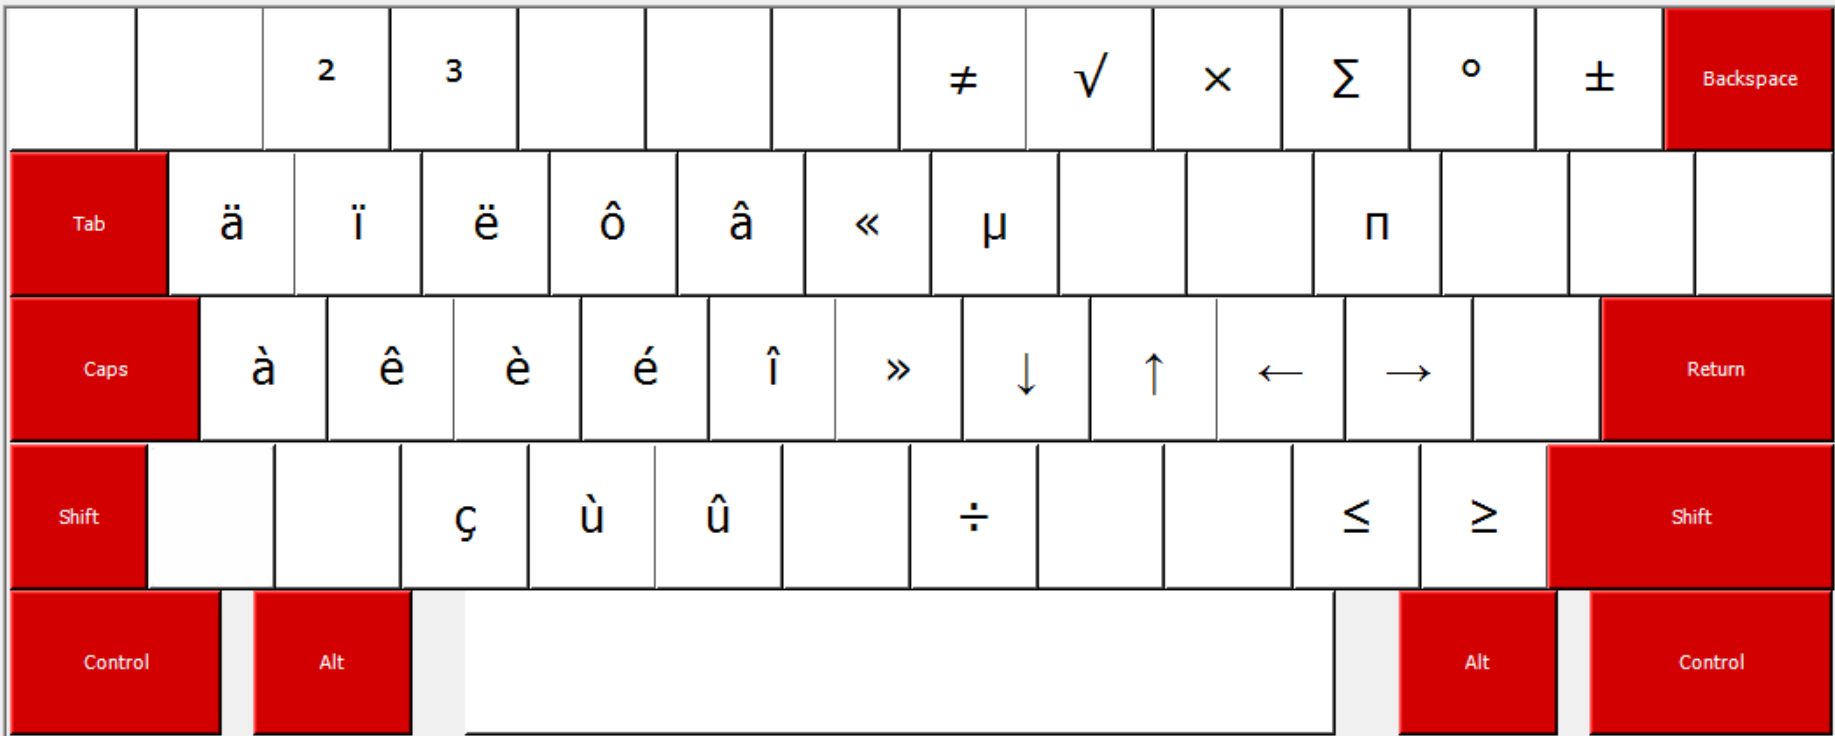
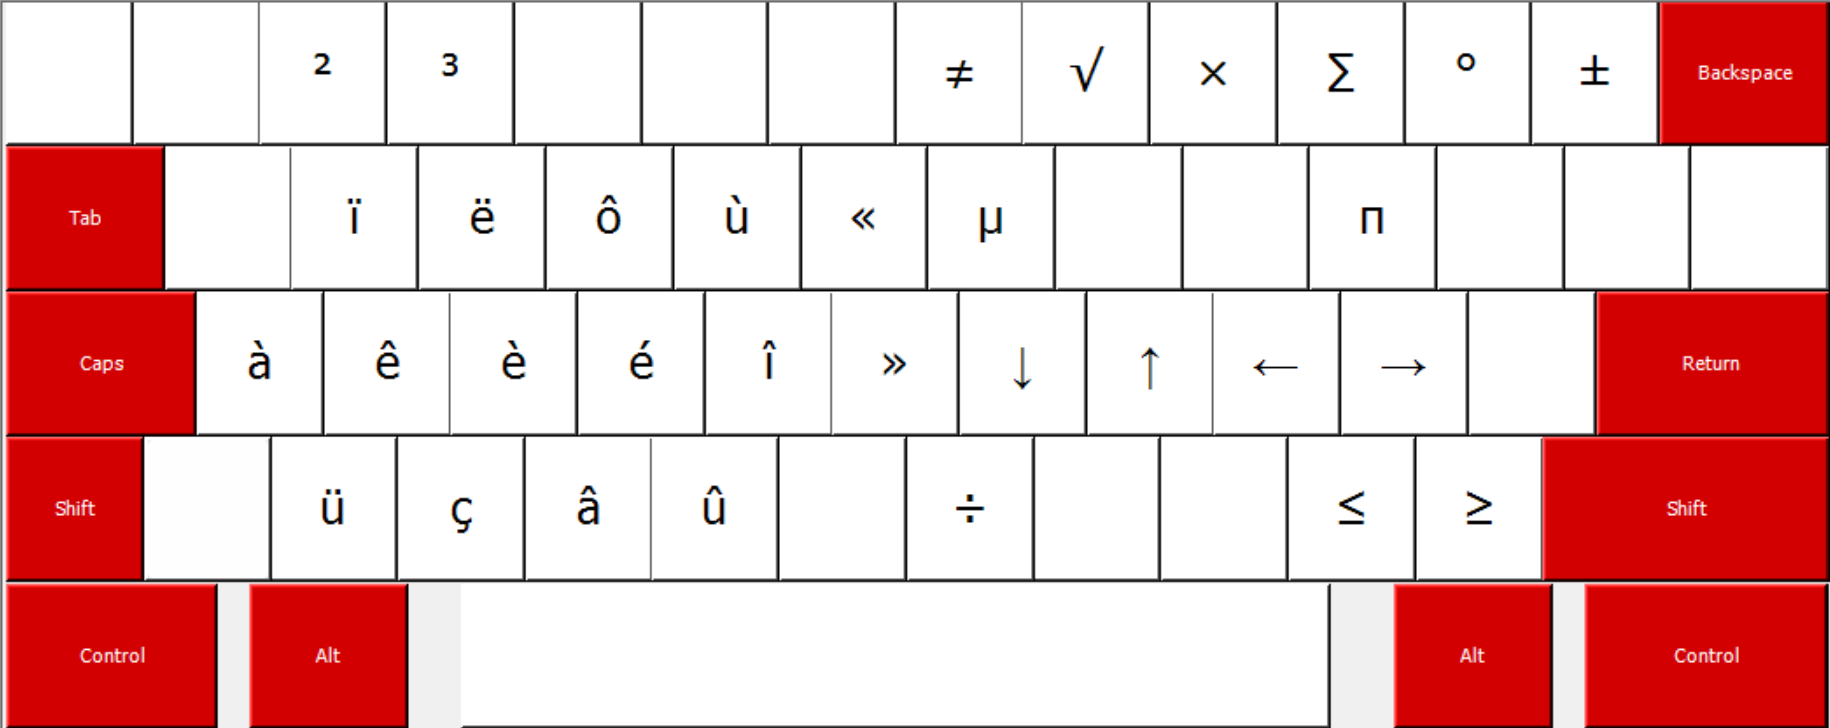
Added the missing a circ and "french" double quote open

diff --git a/README.md b/README.md
@@ -77,6 +77,8 @@ Add symbols:
 
 ### French
 
+[Fréquence d'apparition des lettres (Wikipédia).](https://fr.wikipedia.org/wiki/Fr%C3%A9quence_d%27apparition_des_lettres)
+
 - à: U+00E0
 - è: U+00E8
 - ù: U+00F9
@@ -89,6 +91,7 @@ Add symbols:
 - ä: U+00E4
 - ë: U+00EB
 - ï: U+00EF
+- ü: U+00FC
 - ç: U+00E7
 - «: U+00AB
 - »: U+00BB
